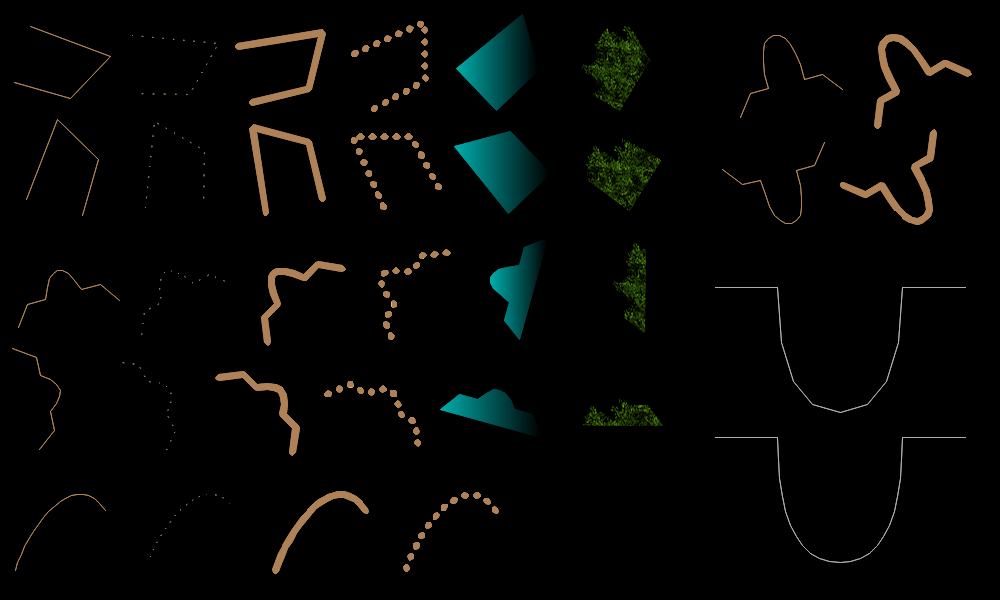
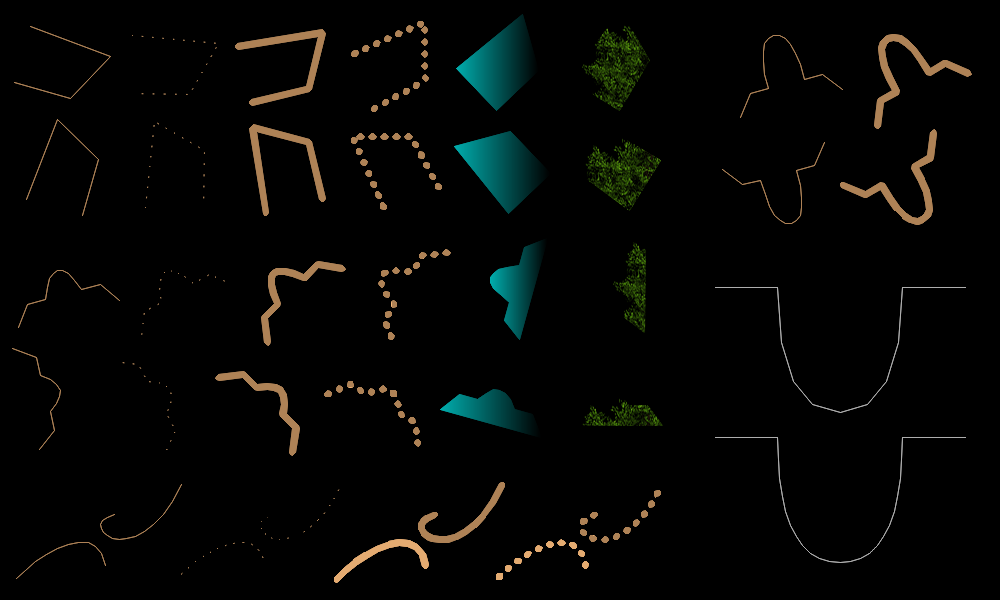
Adding cubic bezier in Path2D

diff --git a/src/Pt-Gfx/tests/ImagePainterTest2_Draw_Path.cpp b/src/Pt-Gfx/tests/ImagePainterTest2_Draw_Path.cpp
@@ -226,29 +226,31 @@ static void testDrawPath(const char* title, Image& image, Painter& painter, cons
 
     path2d.clear        ();
     path2d.beginPath    ();
-    path2d.moveTo       (60, 60                ); // CCW
-    path2d.cubicBezierTo(40, 30, 10, 70, 0, 100);
+    path2d.moveTo       (30, 50                ); // CCW
+    path2d.cubicBezierTo(20, 35,  5, 55,  0, 70);
+    path2d.endPath      ();
+    path2d.beginPath    ();
+    path2d.moveTo       (28, 28                );
+    path2d.cubicBezierTo( 7, 40, 44, 52, 44,  8);
     path2d.endPath      ();
 
     matrix2d.identity();
-    matrix2d.translate(-30, -20);
-    matrix2d.scaleAboutOrigin(1.5, 1.5);
+    matrix2d.rotateAboutOrigin(-25);
+    matrix2d.scaleAboutOrigin(2.5, 2.5);
 
 #define DRAW_CB(PEN)                                   \
     do {                                               \
         matrix2d.push();                               \
-        matrix2d.translate(60 + 130 * col, 150 * row); \
+        matrix2d.translate(90 + 160 * col, 140 * row); \
         ip2->setPen(PEN);                              \
         ip2->drawPath(path2d, matrix2d, false, 1);     \
         matrix2d.pop();                                \
         ++col;                                         \
     } while(false)
-
     DRAW_CB(penThinSolid );
     DRAW_CB(penThinDot   );
     DRAW_CB(penThickSolid);
     DRAW_CB(penThickDot  );
-
 #undef DRAW_CB
 
     sdlPreviewRGB888Buffer(title, image.data(), image.width(), image.height(), !!ip2);

diff --git a/src/Pt-Gfx/tests/ImagePainterTest2.cpp b/src/Pt-Gfx/tests/ImagePainterTest2.cpp
@@ -71,7 +71,7 @@ using namespace Pt::Gfx;
 
 // Detailed-test enable settings for Pt-Gfx
 #define TEST_SOURCECOPY                         1
-#define TEST_SOURCEOVER                         0
+#define TEST_SOURCEOVER                         1
 
 #define TEST_DRAW_SOLID_LINE_AND_TEXT           0 // (including bezier)
 #define TEST_DRAW_PATTERNED_LINE                0 // (including bezier)
